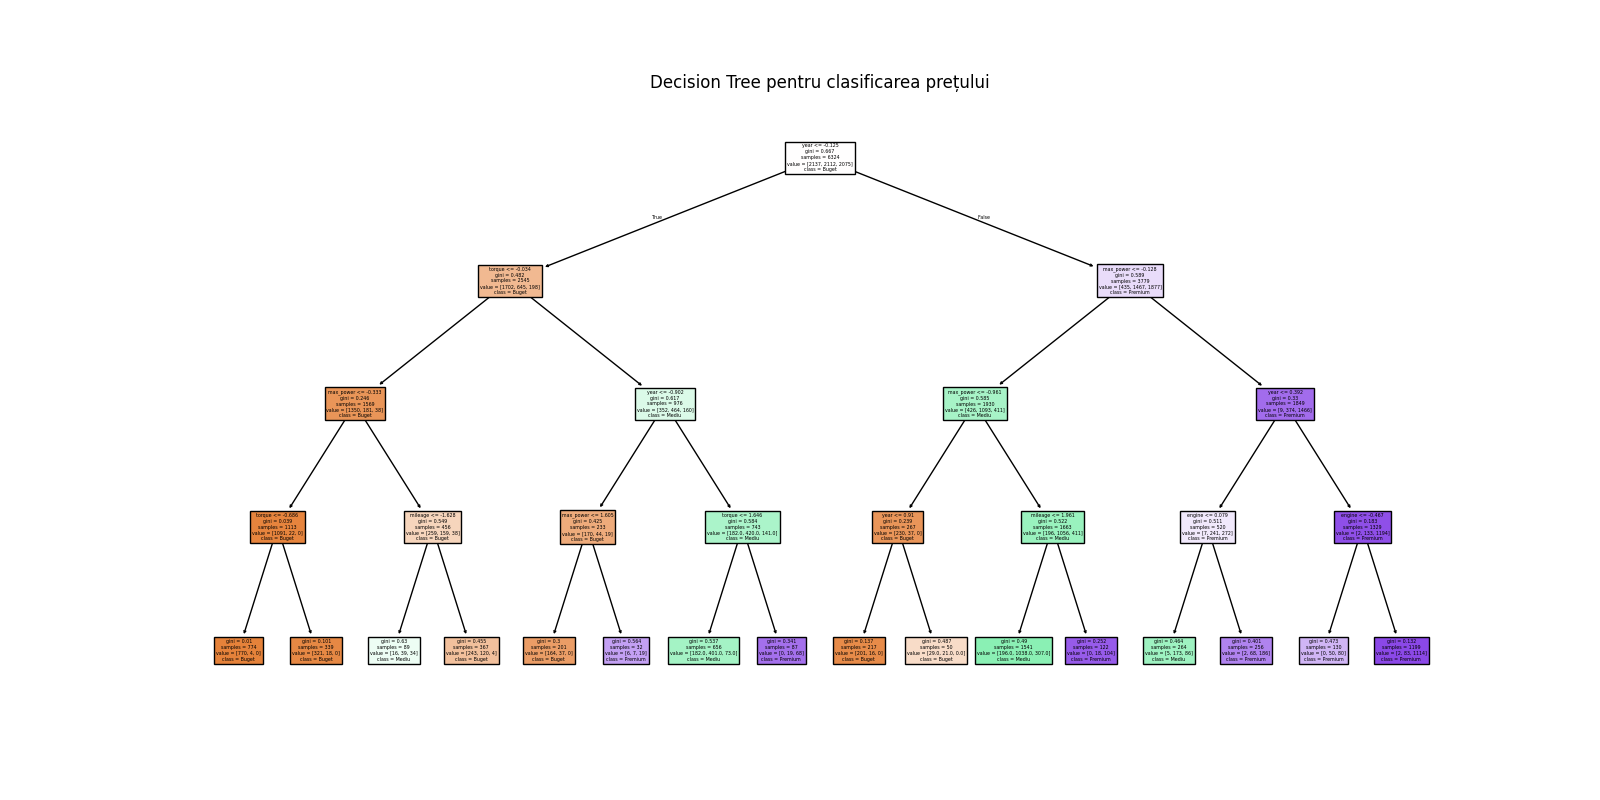
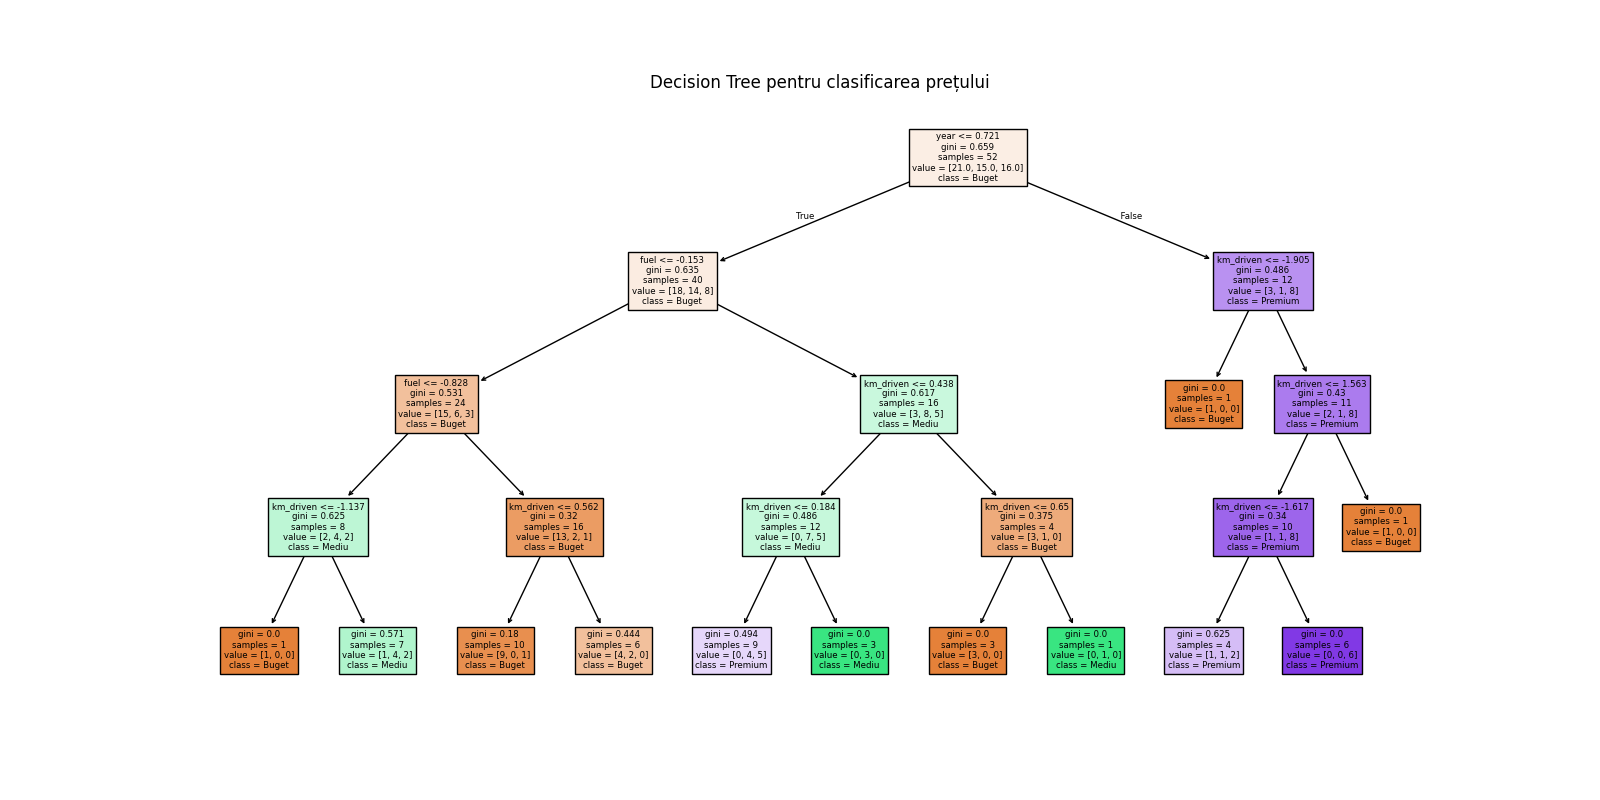
update with web scraping

diff --git a/src/web_scraper.py b/src/web_scraper.py
@@ -1,0 +1,74 @@
+import requests
+from bs4 import BeautifulSoup
+import pandas as pd
+
+toate_masinile = []
+
+for page_number in range(2, 8):  
+    url = f"https://www.tiriacauto.ro/auto-rulate?page={page_number}"
+    response = requests.get(url, verify=False)
+    soup = BeautifulSoup(response.text, 'lxml')
+
+    model_list = soup.find_all(class_='title')
+    pret_list = soup.find_all(class_='orangeText')
+    ul_list = soup.find_all('ul', class_='specs list-unstyled d-flex flex-wrap darkGrayText')
+
+    for i in range(min(len(model_list), len(pret_list), len(ul_list))):
+        model = model_list[i].get_text(strip=True)
+        pret = pret_list[i].get_text(strip=True)
+        
+        li_items = ul_list[i].find_all('li')
+        if len(li_items) == 3:
+            fuel = li_items[0].get_text(strip=True)
+            km = li_items[1].get_text(strip=True)
+            year = li_items[2].get_text(strip=True)
+
+            toate_masinile.append({
+                'name': model,
+                'price': pret,
+                'fuel': fuel,
+                'km_driven': km,
+                'year': year
+            })
+
+df = pd.DataFrame(toate_masinile)
+df.to_csv('data/masini_tiriac_multi.csv', index=False, encoding='utf-8-sig')
+
+print(f"Am salvat {len(toate_masinile)} mașini în CSV.")
+
+
+
+
+
+
+
+
+
+#detalii_text = [d.get_text(strip=True) for d in detalii]
+# li=soup.find_all('li')
+# print(li)
+# for tag in soup.find_all(class_='specs'):
+#     for i,li in tag.find_next('ul').find_all('li'):
+#         print(li)
+
+    
+# for element in pret:
+#     text = element.get_text()
+#     res = ''.join(filter(str.isdigit,text))
+#     print(str(res))
+    
+# for detaliu in detalii_text:
+#     det1=detaliu[0]
+#     an=detaliu[3]
+#     km=detaliu[2]
+#     onlyKm=''.join(filter(str.isdigit,km))
+#     print(an +"    "+ onlyKm)
+
+# for li in soup.find_all('ul',class_="specs list-unstyled d-flex flex-wrap darkGrayText"):
+#     detalii = li.select_one('[class="specs list-unstyled d-flex flex-wrap darkGrayText"] li:nth-child(1) > span').get_text()
+#     km = li.select_one('[class="specs list-unstyled d-flex flex-wrap darkGrayText"] li:nth-child(2) > span').get_text()
+#     an = li.select_one('[class="specs list-unstyled d-flex flex-wrap darkGrayText"] li:nth-child(3) > span').get_text()
+#     onlyKm=''.join(filter(str.isdigit,km))
+#     print(an +"    "+ onlyKm)
+
+

diff --git a/src/user_input.py b/src/user_input.py
@@ -1,28 +1,7 @@
-# def get_user_input():
-#     return {
-#         'year': 2018,
-#         'km_driven': 40000,
-#         'mileage': 18.0,
-#         'engine': 1200.0,
-#         'max_power': 85.0,
-#         'torque': 115.0,
-#         'seats': 5,
-#         'fuel': 'Petrol',
-#         'transmission': 'Manual',
-#         'owner': 'First Owner'
-#     }
-
 def get_user_input():
     print("\nIntroduceți detaliile mașinii:")
     return {
         'year': int(input("Anul (ex: 2018): ")),
         'km_driven': int(input("Km rulați: ")),
-        'mileage': float(input("Consum (km/l): ")),
-        'engine': float(input("Capacitate motor (cc): ")),
-        'max_power': float(input("Putere maximă (bhp): ")),
-        'torque': float(input("Cuplu estimat (Nm): ")),
-        'seats': int(input("Număr locuri: ")),
-        'fuel': input("Tip combustibil (Petrol/Diesel/CNG/LPG): "),
-        'transmission': input("Transmisie (Manual/Automatic): "),
-        'owner': input("Proprietar (First Owner/Second Owner/etc): ")
+        'fuel': input("Tip combustibil (Diesel/Benzina): ")
     }

diff --git a/src/preprocessing.py b/src/preprocessing.py
@@ -6,11 +6,9 @@ def clean_data(path):
     if df.empty:
         raise ValueError("Fișierul este gol sau calea este greșită.")
     df.dropna(inplace=True)
-    df['mileage'] = df['mileage'].str.extract(r'([0-9.]+)').astype(float)
-    df['engine'] = df['engine'].str.extract(r'([0-9.]+)').astype(float)
-    df['max_power'] = df['max_power'].str.extract(r'([0-9.]+)').astype(float)
-    df['torque'] = df['torque'].str.extract(r'([0-9.]+)').astype(float)
-    df['price_category'] = pd.qcut(df['selling_price'], q=3, labels=["Buget", "Mediu", "Premium"])
+    df['km_driven'] = df['km_driven'].str.extract(r'([0-9.]+)').astype(float)
+    df['price'] = df['price'].str.replace(r'[^\d]', '', regex=True).astype(float)
+    df['price_category'] = pd.qcut(df['price'], q=3, labels=["Buget", "Mediu", "Premium"])
     return df
 
 def encode_data(df, cat_vars):

diff --git a/main.py b/main.py
@@ -13,7 +13,14 @@ from sklearn.metrics import classification_report, confusion_matrix
 
 # 1. Clean and encode
 df = clean_data(DATA_PATH)
+
+# from src.web_scraper import scrape_autovit
+# scraped_path = scrape_autovit(num_pages=2)  # sau câte pagini vrei
+# df = clean_data(scraped_path)
 df, encoders = encode_data(df, CATEGORICAL_VARS)
+
+print(df)
+
 
 # 2. Recommender
 features = df[NUMERIC_VARS + CATEGORICAL_VARS]
@@ -34,7 +41,7 @@ print(recs)
 X = df[FEATURE_VARS]
 X_scaled = scaler.fit_transform(X)
 
-y = df['selling_price']
+y = df['price']
 y_classification = df[CLASSIFICATION_TARGET]
 pipe = build_regression_pipeline()
 pipe.fit(X, y)
@@ -60,3 +67,5 @@ y_pred_cls = clf.predict(X_test_cls)
 print(classification_report(y_test_cls, y_pred_cls))
 print("\n--- Confusion Matrix ---")
 print(confusion_matrix(y_test_cls, y_pred_cls))
+
+

diff --git a/src/regression_model.py b/src/regression_model.py
@@ -4,8 +4,8 @@ from sklearn.preprocessing import StandardScaler, OneHotEncoder
 from sklearn.linear_model import LinearRegression
 
 def build_regression_pipeline():
-    numeric = ['year', 'km_driven', 'mileage', 'engine', 'max_power', 'seats']
-    categorical = ['fuel', 'transmission', 'owner']
+    numeric = ['year', 'km_driven']
+    categorical = ['fuel']
     preprocessor = ColumnTransformer([
         ('num', StandardScaler(), numeric),
         ('cat', OneHotEncoder(handle_unknown='ignore'), categorical)

diff --git a/src/nn_model.py b/src/nn_model.py
@@ -3,11 +3,13 @@ import torch.nn as nn
 import torch.nn.functional as F
 import matplotlib.pyplot as plt
 
+
 def train_nn(X_train, y_train, X_test, y_test):
+    input_dim = X_train.shape[1]
     class CarPriceNN(nn.Module):
         def __init__(self):
             super().__init__()
-            self.fc1 = nn.Linear(10, 64)
+            self.fc1 = nn.Linear(input_dim, 64)
             self.fc2 = nn.Linear(64, 32)
             self.out = nn.Linear(32, 1)
 

diff --git a/src/config.py b/src/config.py
@@ -1,5 +1,5 @@
-DATA_PATH = 'data/details.csv'
-CATEGORICAL_VARS = ['fuel', 'transmission', 'owner']
-NUMERIC_VARS = ['year', 'km_driven', 'mileage', 'engine', 'max_power', 'torque', 'seats']
+DATA_PATH = 'data/masini_tiriac_multi.csv'
+CATEGORICAL_VARS = ['fuel']
+NUMERIC_VARS = ['year', 'km_driven']
 FEATURE_VARS = NUMERIC_VARS + CATEGORICAL_VARS
 CLASSIFICATION_TARGET = 'price_category'

diff --git a/src/recommend.py b/src/recommend.py
@@ -8,4 +8,4 @@ def train_recommender(features_scaled):
 def recommend(model, user_vector, df_original, scaler):
     scaled = scaler.transform([user_vector])
     _, indices = model.kneighbors(scaled)
-    return df_original.iloc[indices[0]][['name', 'year', 'selling_price']]
+    return df_original.iloc[indices[0]][['name', 'year', 'price']]
